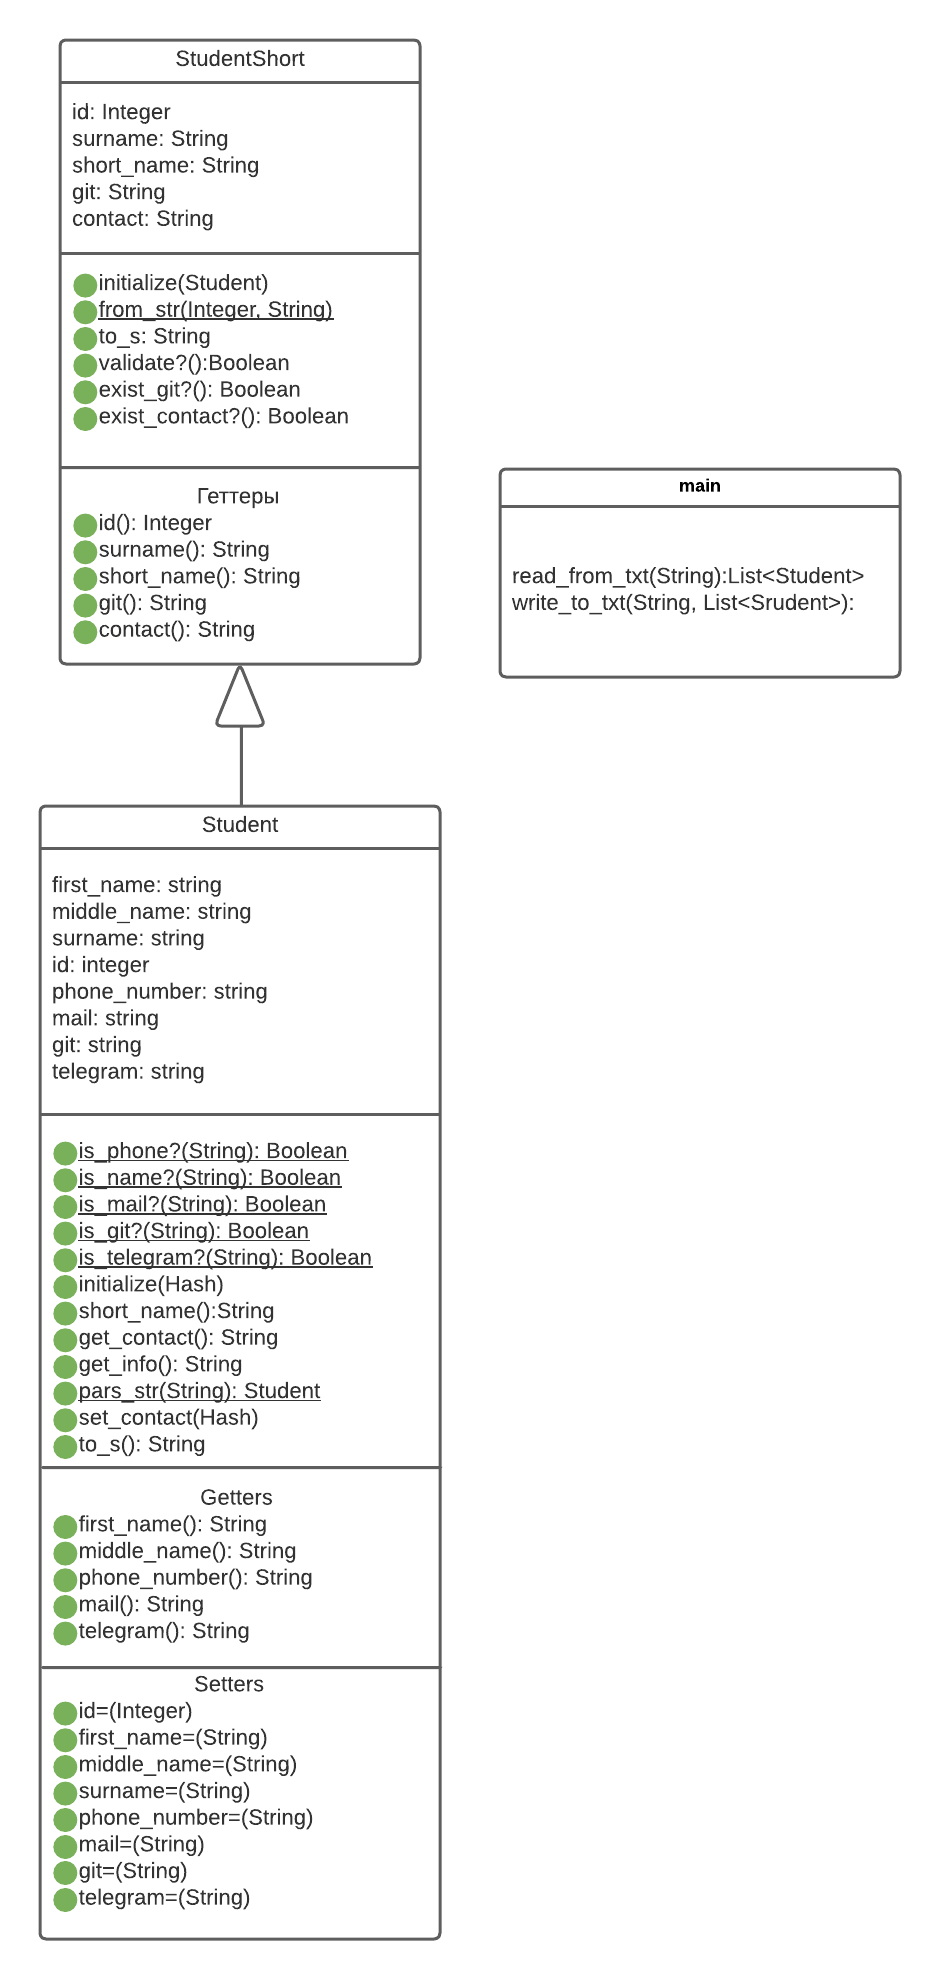
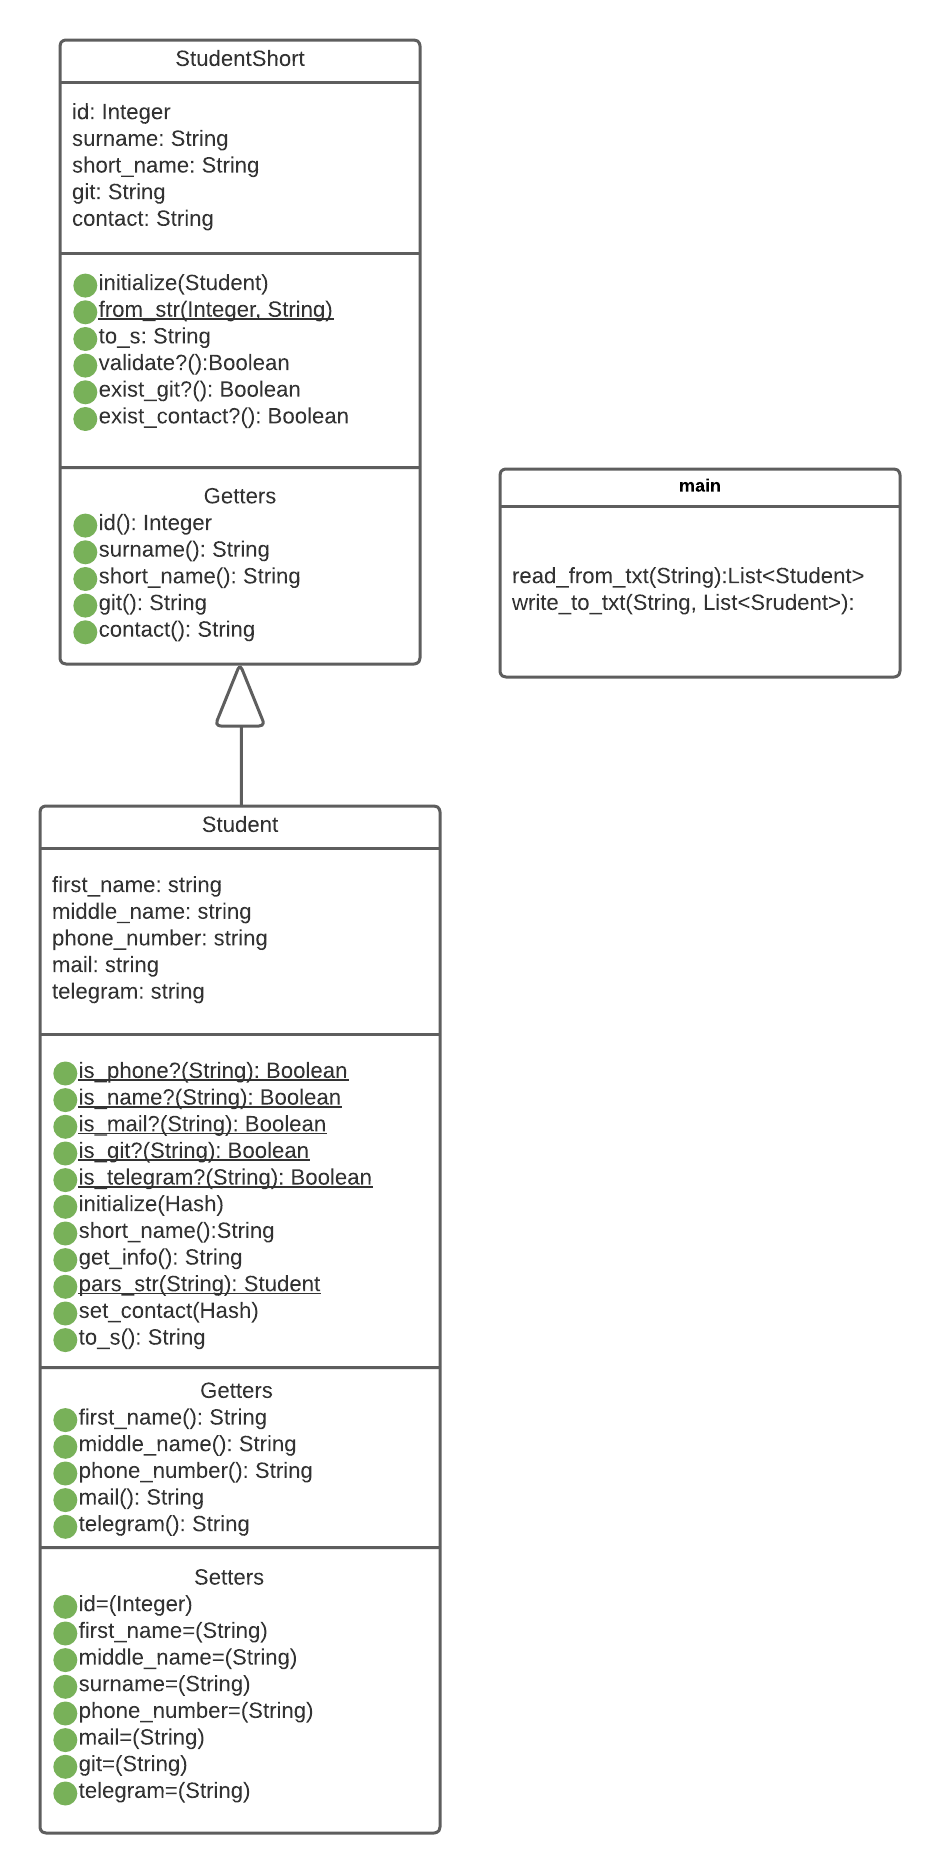
изменение в contact

Changed region(s): [[0.0309, 0.0, 0.4936, 0.9909], [0.5245, 0.2168, 0.9564, 0.3716]]

diff --git a/lab2/student.rb b/lab2/student.rb
@@ -4,135 +4,137 @@ require_relative 'student_short'
 class Student < StudentShort
 
 
-	attr_reader :first_name, :middle_name, :phone_number, :mail , :telegram
+  attr_reader :first_name, :middle_name, :phone_number, :mail , :telegram
 
-	def self.is_phone?(phone_number)
-    	raise ArgumentError, "arg '#{phone_number}' is not string" unless phone_number.class == String or phone_number.nil?
-    	return true if phone_number=~/^(\+7|8)\s?(\(\d{3}\)|\d{3})[\s\-]?\d{3}[\s\-]?\d{2}[\s\-]?\d{2}/ or phone_number.nil?
-    	false
-  	end
-
-  	def self.is_name?(name)
-  		raise ArgumentError, "arg '#{name}' is not string" unless name.class == String 
-    	return true if name=~/^[А-Яа-я]+$/
-  	end
-
-  	def self.is_mail?(mail)
-  		raise ArgumentError, "arg '#{mail}' is not string" unless mail.class == String or mail.nil?
-  		return true if mail=~/^[^@\s]+@[^@\s]+\.\w+$/ or mail.nil?
-  	end	
-
-  	def self.is_git?(git)
-    	raise ArgumentError, "arg '#{git}' is not string" unless git.class == String or git.nil?
-    	return true if git=~/^github\.com\/[a-zA-Z0-9\-_]+$/ or git.nil?
-    	false
-  	end
-
-  	def self.is_telegram?(telegram)
-  		raise ArgumentError, "arg '#{telegram}' is not string" unless telegram.class == String or telegram.nil?
-    	return true if telegram=~/^@[^@]+$/ or telegram.nil?
+  def self.is_phone?(phone_number)
+    raise ArgumentError, "arg '#{phone_number}' is not string" unless phone_number.class == String or phone_number.nil?
+    return true if phone_number=~/^(\+7|8)\s?(\(\d{3}\)|\d{3})[\s\-]?\d{3}[\s\-]?\d{2}[\s\-]?\d{2}/ or phone_number.nil?
     false
-  	end
+  end
 
-  	
-	#конструктор
-	def initialize(first_name: nil, middle_name:nil, surname:nil, id:nil,phone_number:nil, git:nil,telegram:nil, mail:nil) 
-		self.first_name = first_name
-		self.middle_name = middle_name
-		self.surname = surname
-		self.id = id
-		self.git = git
-		self.set_contacts(phone_number: phone_number,mail: mail, telegram:telegram)
-	end
+  def self.is_name?(name)
+    raise ArgumentError, "arg '#{name}' is not string" unless name.class == String
+    return true if name=~/^[А-Яа-я]+$/
+  end
 
- 	def short_name
-    	"#{surname} #{first_name[0]}. #{middle_name[0]}."
-  	end
+  def self.is_mail?(mail)
+    raise ArgumentError, "arg '#{mail}' is not string" unless mail.class == String or mail.nil?
+    return true if mail=~/^[^@\s]+@[^@\s]+\.\w+$/ or mail.nil?
+  end
 
-  	def get_contact
-    	return "phone= #{phone_number}" unless phone_number.nil?
-    	return "telegram= #{telegram}" unless telegram.nil?
-    	return "email= #{mail}" unless mail.nil?
-    	nil
-    end
+  def self.is_git?(git)
+    raise ArgumentError, "arg '#{git}' is not string" unless git.class == String or git.nil?
+    return true if git=~/^github\.com\/[a-zA-Z0-9\-_]+$/ or git.nil?
+    false
+  end
 
-    def get_info
-    	result = "#{short_name}" if !(first_name.nil? or middle_name.nil? or surname.nil?) 
-    	result += " #{get_contact}"  unless get_contact.nil?
-    	result += "git= #{git}" unless git.nil?
-    	result
-    end
-
-	def self.pars_str(str)
-		args = JSON.parse(str)
-		raise ArgumentError,"The argument must have first_name, middle_name and surname" unless 
-			(args.has_key?('first_name') and args.has_key?('middle_name') and args.has_key?('surname'))
-		
-    	new(first_name: args['first_name'], middle_name: args['middle_name'], 
-    		surname: args['surname'], id: args['id'],
-    		git: args['git'],
-            phone_number: args['phone_number'], telegram: args['telegram'], 
-            mail: args['mail'])
-	end
+  def self.is_telegram?(telegram)
+    raise ArgumentError, "arg '#{telegram}' is not string" unless telegram.class == String or telegram.nil?
+    return true if telegram=~/^@[^@]+$/ or telegram.nil?
+    false
+  end
 
 
-    def set_contacts(phone_number:nil, mail:nil, telegram:nil)
-    	self.phone_number = phone_number 
-    	self.mail = mail 
-    	self.telegram = telegram 
-    end
+  #конструктор
+  def initialize(first_name: nil, middle_name:nil, surname:nil, id:nil,phone_number:nil, git:nil,telegram:nil, mail:nil)
+    self.first_name = first_name
+    self.middle_name = middle_name
+    self.surname = surname
+    self.id = id
+    self.git = git
+    set_contacts(phone_number: phone_number,mail: mail, telegram:telegram)
+  end
 
-	#сеттеры
-	def id=(id_value)
-		raise ArgumentError, "arg '#{id_value}' is not valid for id (must be int)" unless id_value.class == Integer or id_value.nil?  
-		@id=id_value
-	end
+  def short_name
+    "#{surname} #{first_name[0]}. #{middle_name[0]}."
+  end
 
-
-	def first_name=(first_name_value)
-		raise ArgumentError, "Incorrect value: first_name=#{first_name}!" unless Student.is_name?(first_name_value) 
-		@first_name=first_name_value
-	end
-
-	def middle_name=(middle_name_value)
-		raise ArgumentError, "Incorrect value: middle_name=#{middle_name}!" unless Student.is_name?(middle_name_value)
-		@middle_name=middle_name_value
-	end
-
-	def surname=(surname_value)
-		raise ArgumentError, "Incorrect value: surname=#{surname}!" unless Student.is_name?(surname_value)
-		@surname=surname_value
-	end
-
-	def phone_number=(phone_number_value)
-		raise ArgumentError, "Incorrect value: phone_number=#{phone_number_value}!" unless Student.is_phone?(phone_number_value) 
-		@phone_number=phone_number_value
-	end
-
-	def mail=(mail_value)
-		raise ArgumentError, "Incorrect value: mail=#{mail}!" unless Student.is_mail?(mail_value)
-		@mail=mail_value
-	end
-
-	def git=(git_value)
-		raise ArgumentError, "Incorrect value: git=#{git}!" unless Student.is_git?(git_value)
-		@git=git_value
-	end
-
-	def telegram=(telegram_value)
-		raise ArgumentError, "Incorrect value: telegram=#{telegram}!" unless Student.is_telegram?(telegram_value)
-		@telegram=telegram_value
-	end
-	
-	def to_s
-	    result = "#{first_name} #{middle_name} #{surname}"
-	    result += " id=#{id}" unless id.nil?
-	    result += " phone=#{phone_number}" unless phone_number.nil?
-	    result += " git=#{git}" unless git.nil?
-	    result += " telegram=#{telegram}" unless telegram.nil?
-	    result += " mail=#{mail}" unless mail.nil?
+  def get_info
+    result = "#{short_name}" if !(first_name.nil? or middle_name.nil? or surname.nil?)
+    result += " #{get_contact}"  unless get_contact.nil?
+    result += "git= #{git}" unless git.nil?
     result
-  	end
+  end
 
+  def self.pars_str(str)
+    args = JSON.parse(str)
+    raise ArgumentError,"The argument must have first_name, middle_name and surname" unless
+      (args.has_key?('first_name') and args.has_key?('middle_name') and args.has_key?('surname'))
+
+    new(first_name: args['first_name'], middle_name: args['middle_name'],
+        surname: args['surname'], id: args['id'],
+        git: args['git'],
+        phone_number: args['phone_number'], telegram: args['telegram'],
+        mail: args['mail'])
+  end
+
+
+  def set_contacts(phone_number:nil, mail:nil, telegram:nil)
+    self.phone_number = phone_number unless phone_number.nil?
+    self.mail = mail unless mail.nil?
+    self.telegram = telegram unless telegram.nil?
+    @contact = contact
+  end
+
+  #сеттеры
+  def id=(id_value)
+    raise ArgumentError, "arg '#{id_value}' is not valid for id (must be int)" unless id_value.class == Integer or id_value.nil?
+    @id=id_value
+  end
+
+
+  def first_name=(first_name_value)
+    raise ArgumentError, "Incorrect value: first_name=#{first_name}!" unless Student.is_name?(first_name_value)
+    @first_name=first_name_value
+  end
+
+  def middle_name=(middle_name_value)
+    raise ArgumentError, "Incorrect value: middle_name=#{middle_name}!" unless Student.is_name?(middle_name_value)
+    @middle_name=middle_name_value
+  end
+
+  def surname=(surname_value)
+    raise ArgumentError, "Incorrect value: surname=#{surname}!" unless Student.is_name?(surname_value)
+    @surname=surname_value
+  end
+
+  def phone_number=(phone_number_value)
+    raise ArgumentError, "Incorrect value: phone_number=#{phone_number_value}!" unless Student.is_phone?(phone_number_value)
+    @phone_number=phone_number_value
+  end
+
+  def mail=(mail_value)
+    raise ArgumentError, "Incorrect value: mail=#{mail}!" unless Student.is_mail?(mail_value)
+    @mail=mail_value
+  end
+
+  def git=(git_value)
+    raise ArgumentError, "Incorrect value: git=#{git}!" unless Student.is_git?(git_value)
+    @git=git_value
+  end
+
+  def telegram=(telegram_value)
+    raise ArgumentError, "Incorrect value: telegram=#{telegram}!" unless Student.is_telegram?(telegram_value)
+    @telegram=telegram_value
+  end
+
+  def to_s
+    result = "#{first_name} #{middle_name} #{surname}"
+    result += " id=#{id}" unless id.nil?
+    result += " phone=#{phone_number}" unless phone_number.nil?
+    result += " git=#{git}" unless git.nil?
+    result += " telegram=#{telegram}" unless telegram.nil?
+    result += " mail=#{mail}" unless mail.nil?
+    result
+  end
+
+  def contact
+    return @contact = "phone_number= #{phone_number}" unless phone.nil?
+    return @contact = "telegram= #{telegram}" unless telegram.nil?
+    return @contact = "mail= #{mail}" unless email.nil?
+
+    nil
+  end
 
 end
+

diff --git a/lab2/student_short.rb b/lab2/student_short.rb
@@ -2,45 +2,46 @@ require 'json'
 
 class StudentShort
 
-	attr_reader :id,:surname,:short_name, :git, :contact
+  attr_reader :id,:surname,:short_name, :git, :contact
 
-	def initialize(student)
-		@id = student.id
-		@surname = student.surname
-		@short_name = "#{student.first_name[0]}. #{student.middle_name[0]}."
-		@git = student.git unless student.git.nil?
-		@contact = student.get_contact
-	end
+  def initialize(student)
+    @id = student.id
+    @surname = student.surname
+    @short_name = "#{student.first_name[0]}. #{student.middle_name[0]}."
+    @git = student.git unless student.git.nil?
+    @contact = student.set_contacts(phone_number: student.phone_number, mail:student.mail,telegram: student.telegram)
+  end
 
-	def self.from_str(id,str)
-		res = JSON.parse(str)
+  def self.from_str(id,str)
+    res = JSON.parse(str)
 
-		Student_Short.new(Student.new(first_name: res['fisrst_name'], 
-			middle_name:res['middle_name'], surname:res['surname'], id:id,
-			mobile_phone: result['phone'], git: result['git'],
-            mail: result['mail'],telegram: result['telegram']))
-	end
+    Student_Short.new(Student.new(first_name: res['fisrst_name'],
+                                  middle_name:res['middle_name'], surname:res['surname'], id:id,
+                                  phone_number: result['phone_number'], git: result['git'],
+                                  mail: result['mail'],telegram: result['telegram']))
+  end
 
-	def to_s
-		res = "#{surname}"
-		res += " #{short_name}"
-        res += " id=#{id}" unless id.nil?
-        res += " git=#{git}" unless git.nil?
-        res += " #{contact}" unless contact.nil?
-        res
-    end
+  def to_s
+    res = "#{surname}"
+    res += " #{short_name}"
+    res += " id=#{id}" unless id.nil?
+    res += " git=#{git}" unless git.nil?
+    res += " #{contact}" unless contact.nil?
+    res
+  end
 
-    #валидатор
-  	def validate?
-  		exist_git? and exist_contact?
-  	end
+  #валидатор
+  def validate?
+    exist_git? and exist_contact?
+  end
 
-  	def exist_git?
-  		!self.git.nil?
-  	end
+  def exist_git?
+    !self.git.nil?
+  end
 
-  	def exist_contact?
-  		!(self.phone_number.nil? and self.telegram.nil? and self.mail.nil?)
-  	end
+  def exist_contact?
+    !(self.phone_number.nil? and self.telegram.nil? and self.mail.nil?)
+  end
 end
+# frozen_string_literal: true
 
